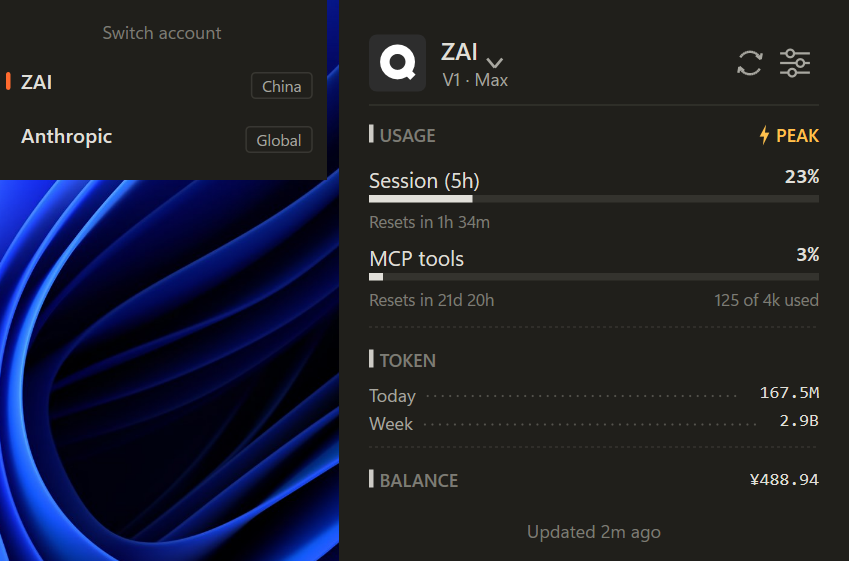
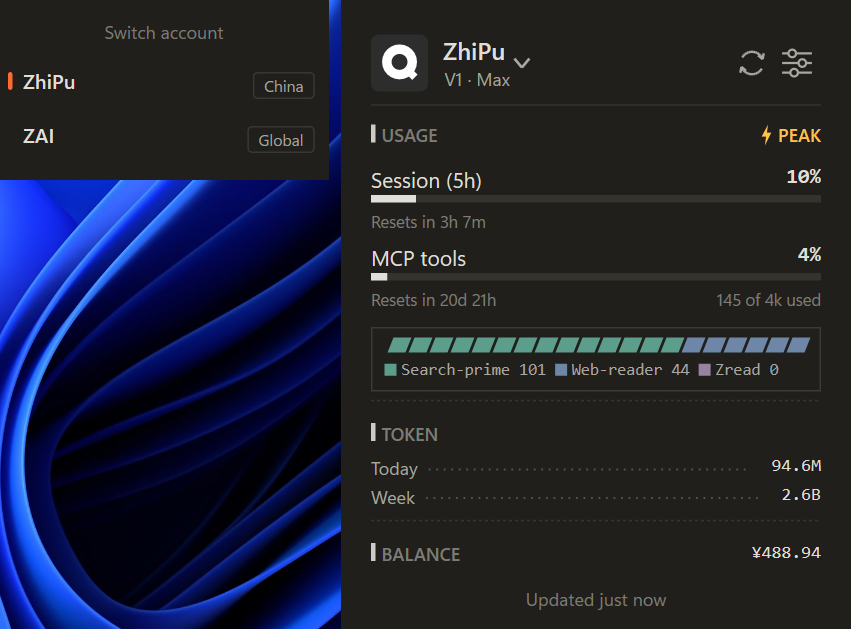
chore: 版本号升至 1.1.1，仓库动态补 v1.1.1 发布条目

diff --git a/docs/WHAT_IS_NEW.md b/docs/WHAT_IS_NEW.md
@@ -4,6 +4,13 @@
 
 ---
 
+## 2026-08-28 · v1.1.1 发布
+
+1、新增 MCP 工具用量构成区；
+2、能量格条与徽标图例细览各工具消耗；
+3、兼容部分 Win11 悬停无响应；
+4、轮询与渲染性能优化。
+
 ## 2026-08-27 · GLM-5.3-Flash 原生多模态模型上线
 
 1、原生融入视觉能力；
